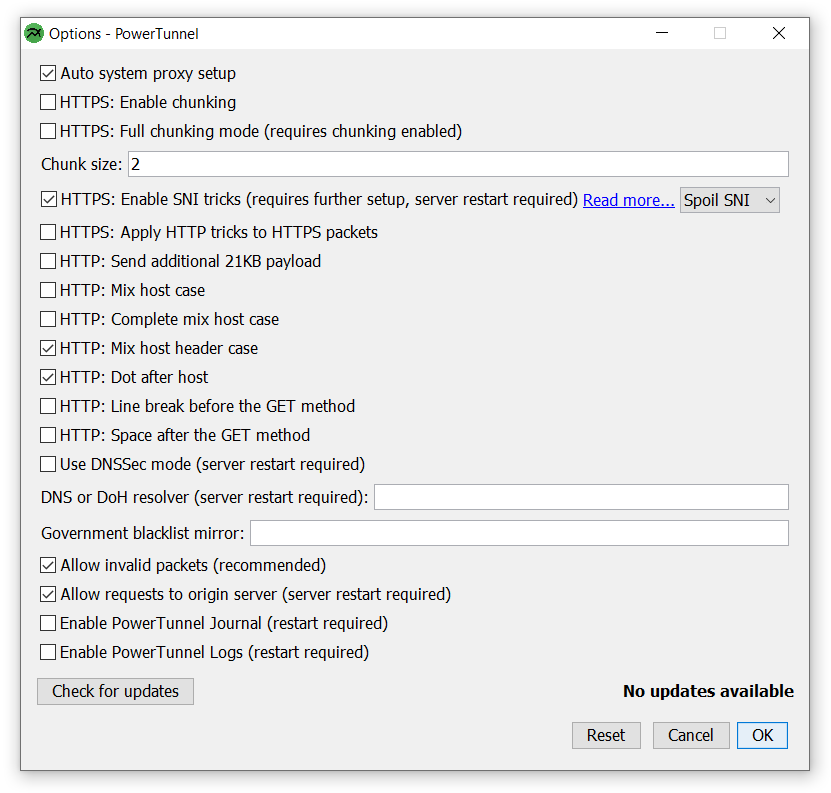
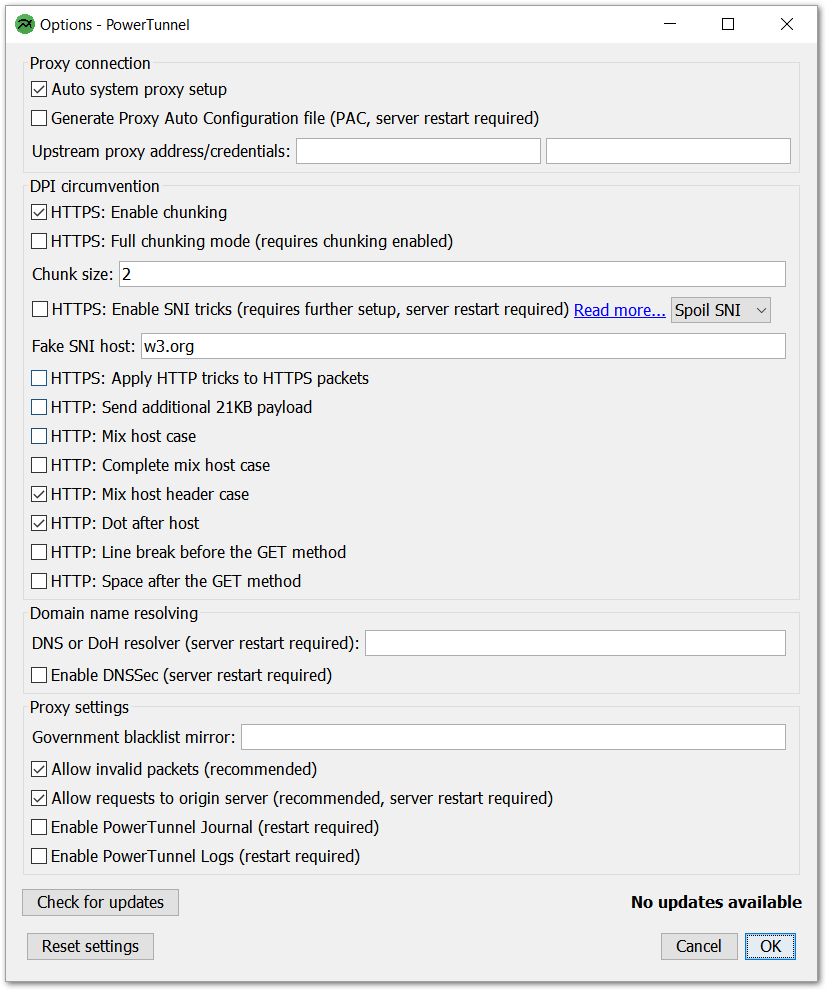
Update screenshots and readme

Changed region(s): [[0.0, 0.0, 0.9976, 0.9987]]

diff --git a/README.md b/README.md
@@ -1,6 +1,6 @@
 <div align="center">
-<img src="https://raw.githubusercontent.com/krlvm/PowerTunnel/master/images/logo.png" height="192px" width="192px" />
-<br><h1>PowerTunnel</h1><br>
+<img src="https://raw.githubusercontent.com/krlvm/PowerTunnel/master/.github/images/logo.png" height="192px" width="192px" />
+<br><h1>PowerTunnel</h1>
 Simple, scalable, cross-platform and effective solution against government censorship
 <!-- That does not mean the battle is finished -->
 <!--<h3><b>Please, read <a href="https://gist.github.com/krlvm/76595f2fec7e23cf5e20f8ccfa43997a">important announcement</a></b></h3>-->
@@ -14,7 +14,7 @@ Simple, scalable, cross-platform and effective solution against government censo
 <a href="https://github.com/krlvm/PowerTunnel/releases"><img src="https://img.shields.io/github/downloads/krlvm/PowerTunnel/total?style=flat-square" alt="Downloads"/></a>
 <a href="https://github.com/krlvm/PowerTunnel/wiki"><img src="https://img.shields.io/badge/help-wiki-yellow?style=flat-square" alt="Help on the Wiki"/></a>
 <br>
-<img src="https://raw.githubusercontent.com/krlvm/PowerTunnel/master/images/ui.png" alt="PowerTunnel User Interface" />
+<img src="https://raw.githubusercontent.com/krlvm/PowerTunnel/master/.github/images/ui.png" alt="PowerTunnel User Interface" style="max-width: 90%; height: auto"/>
 </div>
 
 ### What is it
@@ -57,9 +57,10 @@ DoH servers tested with PowerTunnel:
 You can test if you're using DoH [here](http://www.whatsmydnsserver.com/). If you have problems with DoH on PowerTunnel try disabling DNSSec mode.
 
 ### From User Interface
-![User Interface for configuring the program](https://raw.githubusercontent.com/krlvm/PowerTunnel/master/images/options.png "User Interface for configuring the program")
 
-Hover over option to get more info
+<img src="https://raw.githubusercontent.com/krlvm/PowerTunnel/master/.github/images/options.png" alt="User Interface for configuring the application" style="max-height: 600px; width: auto"/>
+
+Hover over option to get details
 ### Launch arguments
 You can specify some params that will override settings through CLI:
 
